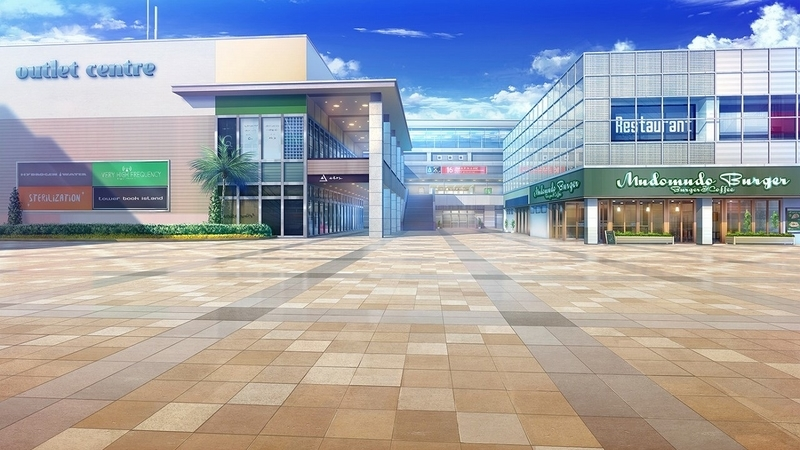
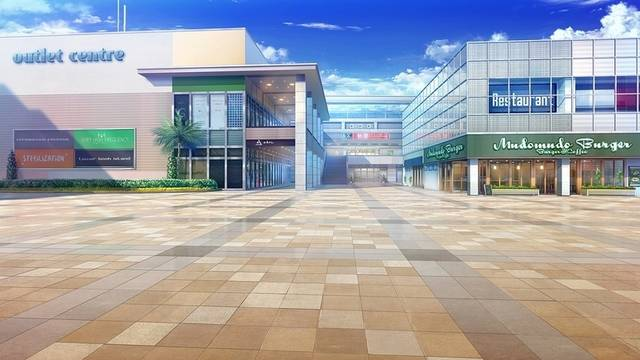
Choose and edit photo

diff --git a/content/en/blog/seichi/making-lovers/index.md b/content/en/blog/seichi/making-lovers/index.md
@@ -5,17 +5,17 @@ tags = [
   "Visual Novel",
   "Anime Tourism"
 ]
-date = 2025-01-15
+date = 2025-01-22
 +++
 
 While there is only one place that is known I made sure to go there and take a photo, as Making*Lovers is one of my favorite VNs.
 
-The location is the Mitsui Outlet Park Makuhari in Chiba, a shopping mall with a lot of stores and restaurants.
+The location is the **Mitsui Outlet Park Makuhari in Chiba**, a shopping mall with a lot of stores and restaurants.
 I was in the area multiple times, as the location is close to the Makuhari Messe, a convention center where I attended Tokyo Game Show and niconico Chokaigi.
 
-The photo is not lined up like in the game, as it is just a quick phone shot before niconico Chokaigi, but you can clearly see the resemblance. (Also, there is a pole in the way.)
+The photo is not lined up perfectly, as it is just a quick phone shot before niconico Chokaigi, but you can clearly see the resemblance.  
+(Also, there is a pole in the way and the geometry is not exactly the same.)
 
 ![1.jpg](1.jpg)
 ![YDR40326.jpg](YDR40326.jpg)
-
 Date: 2024-04-27
